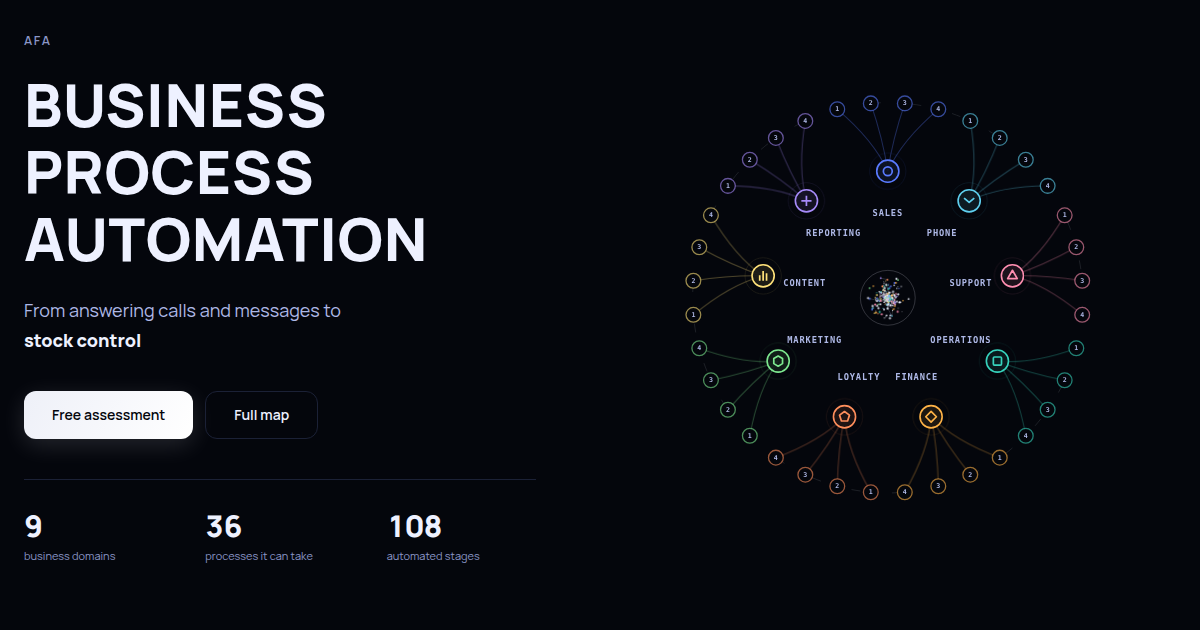
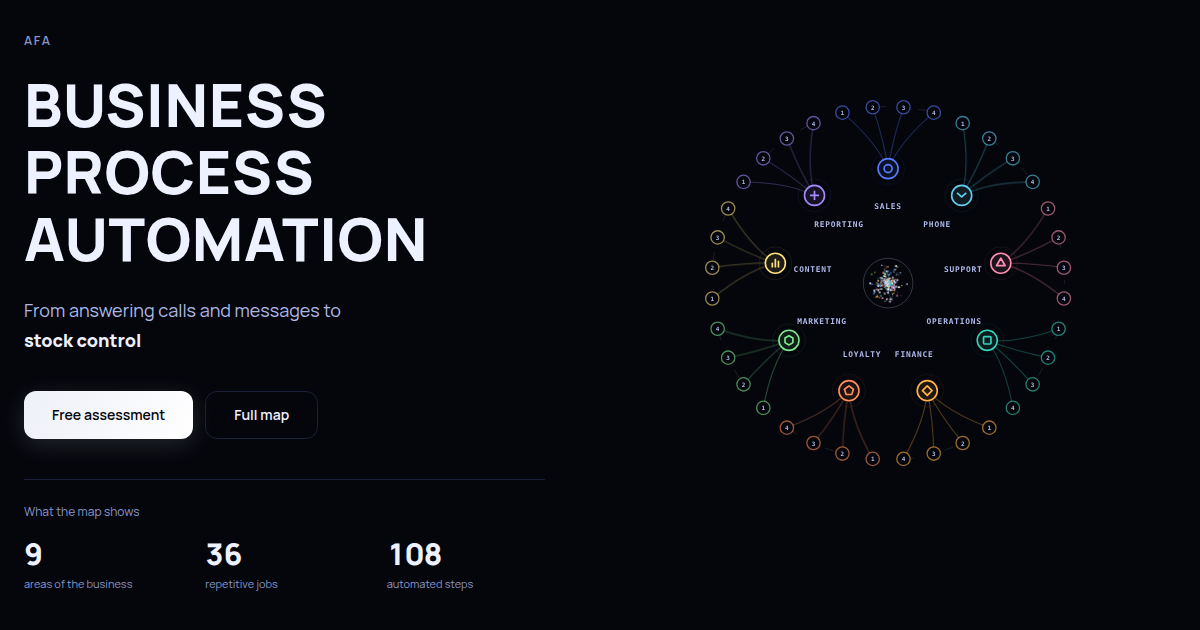
Lift the domain pill off the wheel, and give the hero counts a referent
Two things reported on the first screen.

The ‹ AFA › pill was printing over the bottom of the drawing. The wheel's
outermost nodes reach 792 of 860 viewBox units, which left about 47 rendered
pixels under them for a control that needs 52. The stage now carries bottom
padding: because it is border-box, the padding comes out of the drawing
rather than out of the stage, so the SVG shrinks a little and the pill sits
in dead space. Verified by measuring the pill against every drawn node rather
than by eye; nothing is under it now.

«۹ حوزه کاری» meant nothing on its own, which is fair: it is a number with no
referent, floating under two buttons. The three counts now sit under a
lead-in that names what they are counting, «آنچه روی نقشه میبینید», so they
read as a caption for the drawing beside them. The labels dropped their
jargon too: «بخش کسبوکار» rather than «حوزه کاری», «کار تکراری» rather than
«فرایند قابل سپردن».

Claude-Session: https://claude.ai/code/session_015BLkfHjPPSwAr5JaNHyunu

diff --git a/src/components/sections/hero.tsx b/src/components/sections/hero.tsx
@@ -118,12 +118,16 @@ export function Hero() {
               </Link>
             </div>
 
-            {/* Structural counts, over one hairline. No cards. The human
-                checkpoint used to be a fourth column here and a sentence
-                above; both came out by direct request. The promise itself is
-                unchanged and still stated where it is demonstrated: on the
-                map, in the automation demo, and in the questions. */}
-            <dl className="mt-10 grid max-w-lg grid-cols-3 gap-x-8 gap-y-6 border-t border-border pt-7">
+            {/* Structural counts, over one hairline. No cards.
+
+                They carry a lead-in now: on their own «۹ بخش کسبوکار» is a
+                number with no referent, and the first reader of this hero said
+                exactly that. Naming the map turns three abstract figures into
+                a caption for the drawing beside them. */}
+            <p className="mt-10 border-t border-border pt-6 text-xs text-dim">
+              {t('statsLead')}
+            </p>
+            <dl className="mt-4 grid max-w-lg grid-cols-3 gap-x-8 gap-y-6">
               {(['domains', 'processes', 'stages'] as const).map((stat) => (
                 <div key={stat}>
                   <dd className="text-2xl font-extrabold tabular-nums text-ink sm:text-3xl">

diff --git a/src/styles/capability-map.css b/src/styles/capability-map.css
@@ -81,17 +81,20 @@
   inline-size: auto;
   /* The height drives the size, but the COLUMN still wins: without this cap a
      square stage taller than a narrow viewport is wide is enough to widen its
-     grid track, and everything beside it — claim, buttons — is pushed off the
-     screen. Height then re-derives from the aspect ratio. */
+     grid track, and everything beside it is pushed off the screen. */
   max-inline-size: 100%;
   margin-inline: auto;
-  block-size: min(56svh, 78vw, 26rem);
+  block-size: min(58svh, 78vw, 27rem);
   aspect-ratio: 1;
+  /* Room at the foot for the ‹ domain › pill. Border-box means the padding
+     comes out of the drawing, not out of the stage, so the pill sits in dead
+     space instead of printing over the bottom of the wheel. */
+  padding-block-end: 3.5rem;
 }
 .tmapStage[data-fit='height'][data-view='fan'] { aspect-ratio: 1120 / 840; }
 
 @media (min-width: 640px) {
-  .tmapStage[data-fit='height'] { block-size: min(72svh, 84vw, 44rem); }
+  .tmapStage[data-fit='height'] { block-size: min(74svh, 84vw, 46rem); }
 }
 
 .tmapStage[data-fit='height'] .tmap {
